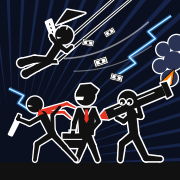
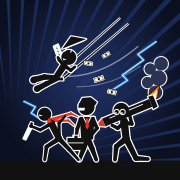
アイコンを角丸＋マスカブル対応に、構図を中央寄せに調整
Claude-Session: https://claude.ai/code/session_01GkBH6vQHN9MVhbWx5AxxoW

diff --git a/style.css b/style.css
@@ -10,7 +10,7 @@ html,body{margin:0;height:100%;background:var(--bg);color:var(--text);
 .screen.active{display:flex}
 @keyframes fade{from{opacity:0;transform:translateY(6px)}to{opacity:1;transform:none}}
 
-.logo{width:140px;height:140px;border-radius:32px;align-self:center;margin-top:24px;box-shadow:0 0 0 2px var(--line)}
+.logo{width:140px;height:140px;align-self:center;margin-top:24px}
 .title,.h2,.winner{font-family:"Dela Gothic One",system-ui,sans-serif;font-weight:400;margin:0}
 .title{font-size:34px;text-align:center;letter-spacing:.02em}
 .sub{text-align:center;color:var(--muted);margin:0}

diff --git a/sw.js b/sw.js
@@ -1,6 +1,6 @@
-const CACHE = 'extremers-v7';
+const CACHE = 'extremers-v8';
 const ASSETS = ['./', './index.html', './style.css', './app.js', './manifest.webmanifest',
-  './icons/icon-192.png', './icons/icon-512.png', './icons/apple-touch-icon.png'];
+  './icons/icon-192.png', './icons/icon-512.png', './icons/apple-touch-icon.png', './icons/maskable-512.png'];
 
 self.addEventListener('install', (e) => {
   e.waitUntil(caches.open(CACHE).then((c) => c.addAll(ASSETS)).then(() => self.skipWaiting()));
